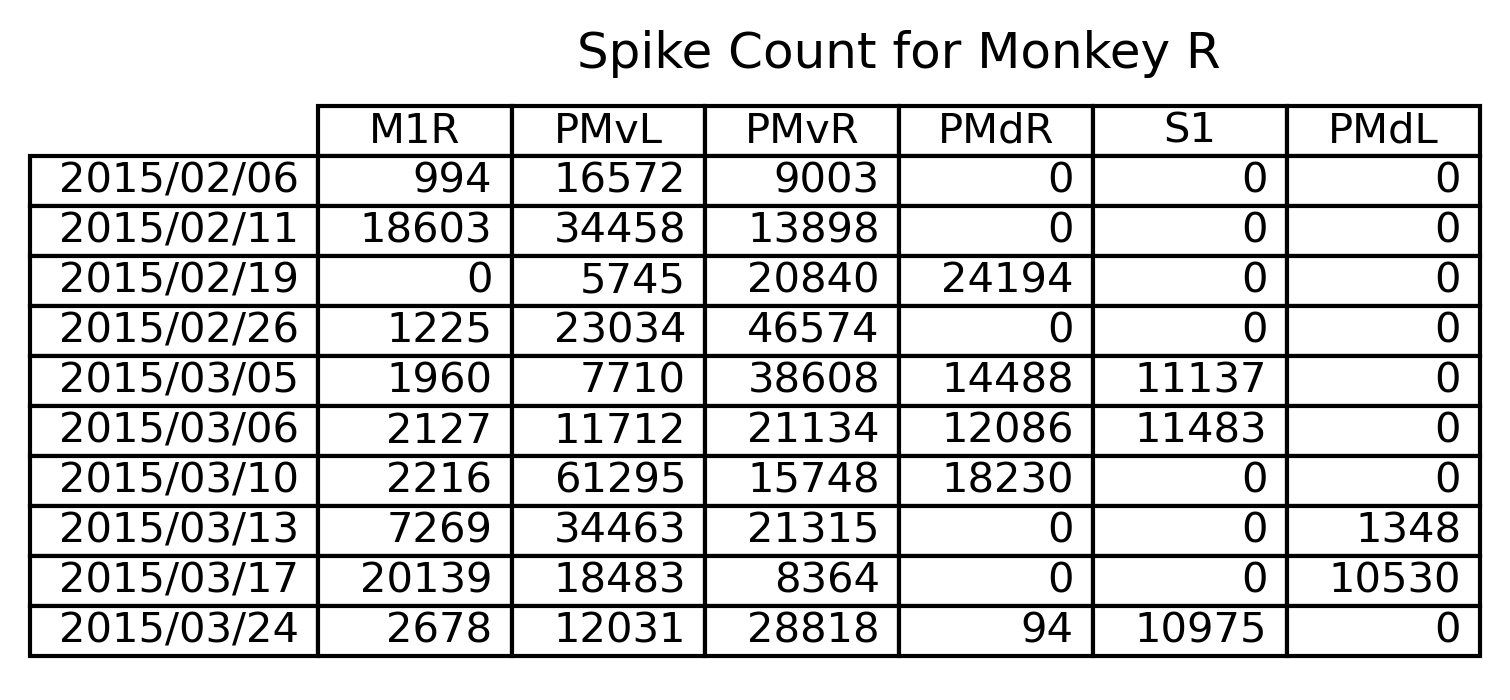
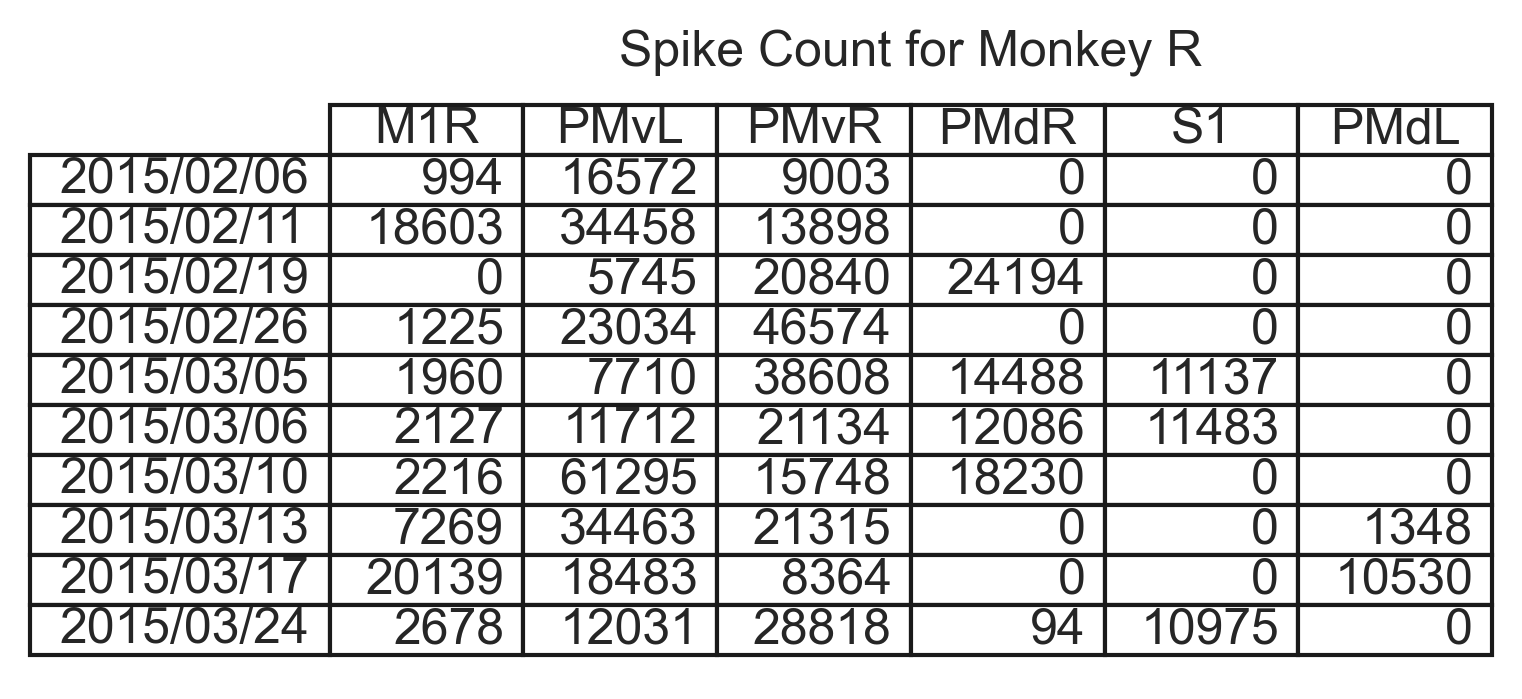
plotted epoch durations

Changed region(s): [[0.0, 0.1502, 0.996, 0.9614], [0.3735, 0.03, 0.8093, 0.1202]]

diff --git a/data_summary.py b/data_summary.py
@@ -1,6 +1,7 @@
 import pickle as pkl                #Saving/loading data (built-in)
 import os                           #Directory Creation and Verification (built-in)
 import glob
+import math
 
 # The following packages need to be installed in your virtual environment (usig conda or pip)
 import pandas as pd                 #Loading tables
@@ -8,11 +9,15 @@ import numpy as np                  #Array operations
 import matplotlib.pyplot as plt     #Generating plots
 from pandas.plotting import table   #Plotting Tables
 
+import seaborn as sns
+sns.set()
+sns.set_style(style='white')
 
 #Define directories of data
 data_dir = 'Data/Sorted_Inactivation'
 matlab_dir = f'{data_dir}/matlabFiles'
 sorting_dir = f'{data_dir}/sortingNotes'
+summary_dir = f'Data/Processed/Summary'
 
 file_list = [f for f in glob.glob(f'{sorting_dir}/SortingNotes_*.xlsx')]
 
@@ -27,12 +32,15 @@ for name in file_names_split:
 
 data_summary = {}
 spikes_summary = {}
+eventTimes_summary = {}
 for _, date, monkey in file_names_split:
     print(date)
     if not monkey in data_summary.keys():
         data_summary[monkey] = {}
     if not monkey in spikes_summary.keys():
         spikes_summary[monkey] = {}
+    if not monkey in eventTimes_summary.keys():
+        eventTimes_summary[monkey] = {}
     if monkey == 'G':
         processed_dir = f'Data/Processed/Monkey_Green/{date[:4]}_{date[4:6]}_{date[6:]}'
     else:
@@ -41,6 +49,14 @@ for _, date, monkey in file_names_split:
         print(f'Data not processed for Monkey {monkey} on {date[:4]}_{date[4:6]}_{date[6:]}')
         continue
     else:
+        event_file_name = f'{processed_dir}/eventTimes.p'
+        with open(event_file_name, 'rb') as event_file:
+            rel_event_times = pkl.load(event_file)
+        for event in rel_event_times.keys():
+            print(event)
+            if event not in eventTimes_summary[monkey]:
+                eventTimes_summary[monkey][event] = []
+            eventTimes_summary[monkey][event].append(rel_event_times[event])
         area_spikes = {}
         area_neurons = {}
         for unit in [1,2]:
@@ -60,6 +76,58 @@ for _, date, monkey in file_names_split:
     print(f'Neurons: {area_neurons}')
     data_summary[monkey][f'{date[:4]}/{date[4:6]}/{date[6:]}'] = area_neurons
     spikes_summary[monkey][f'{date[:4]}/{date[4:6]}/{date[6:]}'] = area_spikes
+
+event_lengths = {}
+fig, axs = plt.subplots(1, 2, figsize=(16,5), sharey='row', sharex='row')
+all_text_vals = []
+max_length, max_counts = 0, 0
+bin_width = 20
+u_lim = 500
+for idx, monkey in enumerate(eventTimes_summary.keys()):
+    ax = axs[idx]
+    event_lengths[monkey] = {}
+    temp_time = 0
+    text_vals=[]
+    all_lengths = []
+    for event in eventTimes_summary[monkey]:
+        eventTimes_summary[monkey][event]=np.hstack(eventTimes_summary[monkey][event])
+        e_lengths = eventTimes_summary[monkey][event] - temp_time
+        event_lengths[monkey][event] = e_lengths
+        temp_time = eventTimes_summary[monkey][event]
+        all_lengths.append(e_lengths)
+    all_lengths = np.hstack(e_lengths)
+    e_max = np.max(all_lengths)
+    bin_number = math.ceil(u_lim/bin_width)
+    for event in eventTimes_summary[monkey]:
+        event_label = event.split('trial')[-1]
+        e_lengths = event_lengths[monkey][event]
+        counts, bins = np.histogram(e_lengths[e_lengths<u_lim], bin_number)
+        ax.stairs(counts, bins, label = event_label)
+        e_max = np.max(e_lengths)
+        e_mean = np.mean(e_lengths)
+        e_min = np.min(e_lengths)
+        max_length = max(max_length, e_max)
+        max_counts = max(np.max(counts), max_counts)
+        text_vals.append(f'{event_label}: Min:{e_min:d}, Mean:{e_mean:.0f}, Max:{e_max}')
+    all_text_vals.append(text_vals)
+    ax.set_title(f'Monkey {monkey}')
+    ax.set_xlabel(f'Event Duration (ms)')
+    ax.set_ylabel(f'Count')
+    ax.set_xlim([0, u_lim])
+
+prop_cycle = plt.rcParams['axes.prop_cycle']
+colors = prop_cycle.by_key()['color']
+all_text_vals = np.vstack(all_text_vals)
+for k, (text_vals, color) in enumerate(zip(all_text_vals.T, colors)):
+    for i in range(len(text_vals)):
+        text = text_vals[i]
+        print(text)
+        axs[i].text(x = 0.6*u_lim, y = (.9-0.1*k)*max_counts, s = text, size = 'x-small', color=color)
+handles, labels = plt.gca().get_legend_handles_labels()
+fig.legend(handles, labels, loc=(0.5, -.01), ncols=4)
+fig.suptitle('Inter-Event Durations')
+sns.despine()
+plt.savefig(f'{summary_dir}/EventDurations.png', bbox_inches='tight', dpi=200)
 
 for monkey in ['G', 'R']:
     fig_dims = (5, 2.5)

diff --git a/area_peak_plots.py b/area_peak_plots.py
@@ -28,7 +28,7 @@ epoch_window_map = {'Pre-cue':  {'event': 'trialRewardDrop', 'window': [-700,   
                    'Post-cue': {'event': 'trialRewardDrop', 'window': [0,       100]},
                    'Reach':    {'event': 'trialReachOn',    'window': [-100,    200]},
                    'Grasp On': {'event': 'trialGraspOn',    'window': [-100,    500]},
-                   'Grasp Off':{'event': 'trialEnd',        'window': [-700,    -400]}}
+                   'Grasp Off':{'event': 'trialGraspOff',        'window': [-200,    100]}}
 
 #Define directories of data
 data_dir = 'Data/Sorted_Inactivation'
@@ -239,7 +239,7 @@ for index_side in index_sides:
 Identify epoch of maximal spike rate and find proportion of neurons with peak in each epoch.
 """
 epoch_names = ['trialRewardDrop', 'trialReachOn', 'trialGraspOn', 'trialGraspOff']
-epoch_windows = {'trialRewardDrop': [0, 100], 'trialReachOn': [-100, 200], 'trialGraspOn':[-100, 500], 'trialEnd':[-700, -400]}
+epoch_windows = {'trialRewardDrop': [0, 100], 'trialReachOn': [-100, 200], 'trialGraspOn':[-100, 500], 'trialGraspOff':[-200, 100]}
 # epoch_windows = {'trialRewardDrop': [0, 100], 'trialReachOn': [-100, 200], 'trialGraspOn':[-100, 500]}
 # events = ['trialRewardDrop', 'trialReachOn', 'trialGraspOn', 'trialGraspOff']
 event_spike_maxes = {}

diff --git a/data_prep.py b/data_prep.py
@@ -51,6 +51,8 @@ for file in file_list:
     event_df = pd.DataFrame(event_times, columns=events)
     event_df = event_df.astype({'trialNumbers':int})
 
+    if monkey_name == 'Red':
+        print(event_df)
     # Load sorting notes for session neuron metadata
     """
     Contents:
@@ -103,6 +105,7 @@ for file in file_list:
     trial_data['trialGraspOn'] = event_df['trialGraspOn'] - trial_data['trialStartTimes']
     trial_data['trialReachOn'] = event_df['trialReachOn'] - trial_data['trialStartTimes']
     trial_data['trialRewardDrop'] = event_df['trialRewardDrop'] - trial_data['trialStartTimes']
+    trial_data['trialGraspOff'] = event_df['trialGraspOff'] - trial_data['trialStartTimes']
 
 
     with open(f'{save_dir}/trial_data.p', 'wb') as f:
